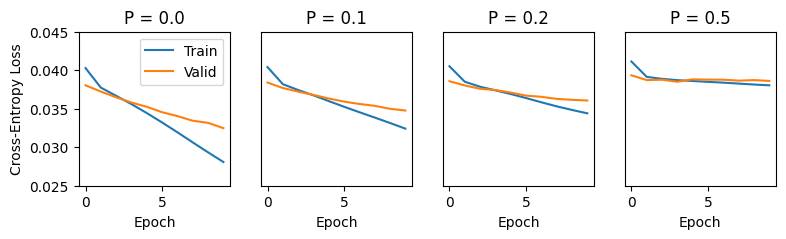
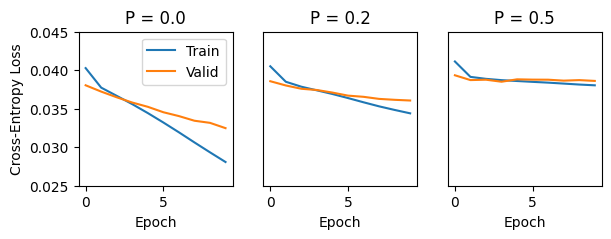
report: fix figures

diff --git a/report/dlfp-report.tex b/report/dlfp-report.tex
@@ -131,7 +131,7 @@ The intuition behind the use of transformers for answering clues is the robust p
 
 Crossword solving in general is addressed by~\citealp{kulshreshtha2022across} and~\citealp{wallace2022automated}, both of which efforts implement and evaluate end-to-end algorithms for solving an entire grid. [Describe Berkeley method and Benchmark method.]
 
-The task this study investigates is limited to answering clues, which is a type of reverse-dictionary problem tackled in \citealp{zhang2019multichannel}. [Describe MultiRD model/results/baseline.] A more fundamental approach to answering clues is implemented in~\citealp{baselinesolver}.
+The task this study investigates is limited to answering clues, which is a type of reverse-dictionary problem tackled in~\citealp{zhang2019multichannel}. [Describe MultiRD model/results/baseline.] A more fundamental approach to answering clues is implemented in~\citealp{baselinesolver}.
 That work does not train a model on a clue-answer database, but instead uses word embeddings to maximize similarity to clues in a database, and selects answers based on best-matching clues.
 
 The concept of answering clues subject to constraints such as word length and known letters is also relevant to this study. Using positional encoding to control output sequence length is a topic addressed by~\citealp{takase2019positional}. The known-letters constraint can be seen as a specific instance of the general problem of unmasking partially-masked sequences given an input context, which is tackled by~\citealp{raffel2023exploring}, among others. Those advanced techniques are not explored herein, though the length constraint is addressed by a text generator algorithm and the performance gain given a known prefix is discussed in the results section.
@@ -154,13 +154,27 @@ The two primary parts of the Cruciformer codebase are the model implementation a
 
 TODO
 
-\subsection{Something}
-\label{subsec:something}
+\begin{figure}[t]
+\centering
+\includegraphics[width=0.9\columnwidth]{fig-onemark-loss-default-and-embsize}
+\caption{\textbf{Word model} training and validation loss curves for default hyperparameters and reduced embedding size.}
+\label{fig:fig1}
+\end{figure}
 
-TODO
+\begin{figure*}[t]
+\centering
+\includegraphics[width=0.8\textwidth]{fig-onemark-loss-dropout}
+\caption{\textbf{Word model} training and validation loss curves under varying dropout rates.}
+\label{fig:fig2}
+\end{figure*}
 
-\subsection{Another Thing}
-\label{subsec:another}
+\subsection{Word Model}
+\label{subsec:word}
+
+As shown in~\ref{fig:fig1}, the loss curves are TODO.
+
+\subsection{Letter Model}
+\label{subsec:letter}
 
 TODO
 
